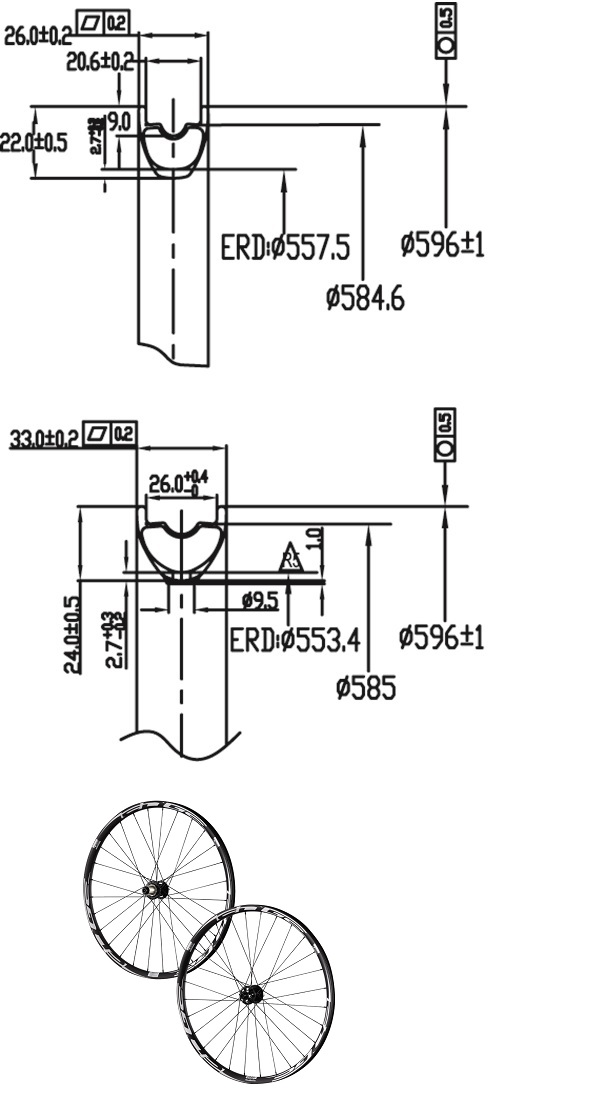
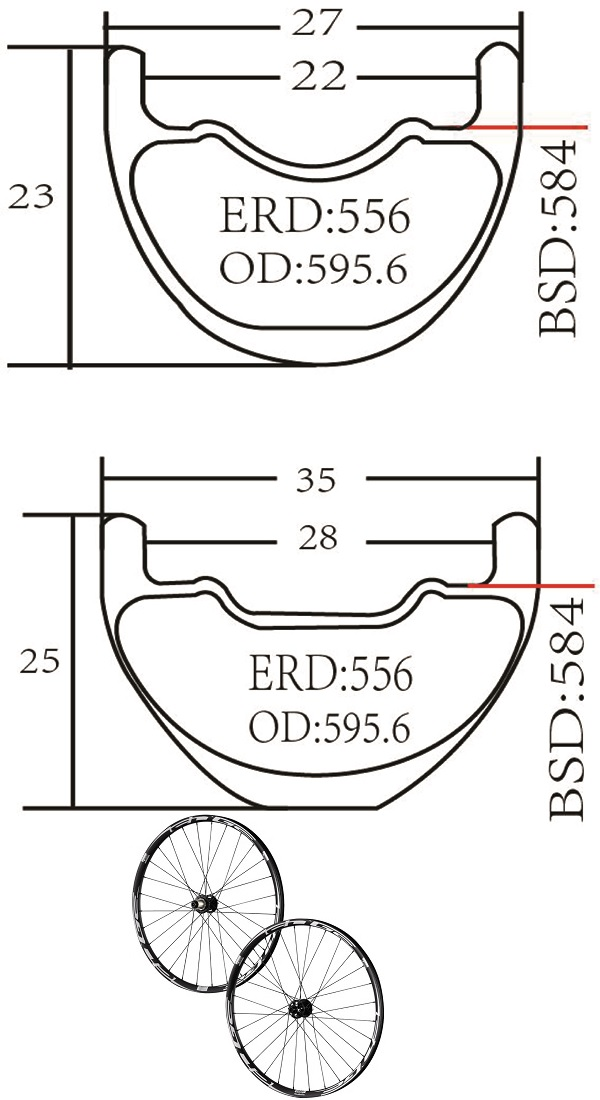
change thunderbolt spec and geo

Changed region(s): [[0.0, 0.3709, 0.99, 1.0], [0.0, 0.0, 0.99, 0.34]]

diff --git a/Spec-THUNDERBOLT.html b/Spec-THUNDERBOLT.html
@@ -4,7 +4,7 @@ title: THUNDERBOLT Specifications
 description: Wheelsets carbon thunderbolt
 menu: ['wheelsets', 'carbon-thunderbolt']
 permalink: 
-date: 2016/12/19
+date: 2018/02/05
 ---
 
 <section id="content" class="shortcode-item rimspec-table">
@@ -19,8 +19,8 @@ date: 2016/12/19
                 <table>
                     <tr class="new">
                         <th>Rim Size</th>
-                        <td>W:26mm; H:22mm</td>
-                        <td>W:33mm; H:24mm</td>
+                        <td>W:27mm; H:23mm</td>
+                        <td>W:35mm; H:25mm</td>
                     </tr>
                     <tr>
                         <th>Model</th>
@@ -34,8 +34,8 @@ date: 2016/12/19
                     </tr>
                     <tr>
                         <th>E.R.D</th>
-                        <td>557.5</td>
-                        <td>553.4</td>
+                        <td>556</td>
+                        <td>556</td>
                     </tr>
                     <tr class="new">
                         <th>Spoke</th>
@@ -104,8 +104,8 @@ date: 2016/12/19
                     </tr>
                     <tr class="new">
                         <th>Weight (w/o skewer)</th>
-                        <td>1475g +/- 30g</td>
-                        <td>1505g +/- 30g</td>
+                        <td>1397.6g +/- 30g</td>
+                        <td>1437.6g +/- 30g</td>
                     </tr>
                 </table>
             </div>
@@ -136,8 +136,8 @@ date: 2016/12/19
   		    <table>
   			<tr class="new ">
     			  <th>Rim Size</th>
-    	 	 	  <td>W:26mm; H:22mm</td>
-    	 	 	  <td>W:33mm; H:24mm</td>
+    	 	 	  <td>W:27mm; H:23mm</td>
+    	 	 	  <td>W:35mm; H:25mm</td>
   			</tr>
   			<tr>
     			  <th>Model</th>
@@ -151,8 +151,8 @@ date: 2016/12/19
   			</tr>
  			<tr>
     			  <th>E.R.D</th>
-    			  <td>595.4</td>
-    			  <td>591.4</td>
+    			  <td>594</td>
+    			  <td>594</td>
   			</tr>
   			<tr class="new ">
     			  <th>Spoke</th>
@@ -221,8 +221,8 @@ date: 2016/12/19
   			</tr>
   			<tr class="new ">
     			  <th>Weight (w/o skewer)</th>
-    			  <td>1575g +/- 30g</td>
-    			  <td>1615g +/- 30g</td>
+    			  <td>1577.6g +/- 30g</td>
+    			  <td>1617.6g +/- 30g</td>
   			</tr>
 		     </table>
 
